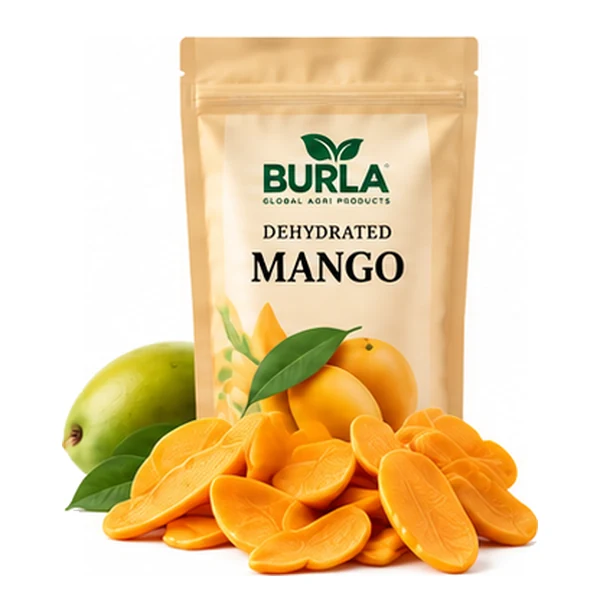
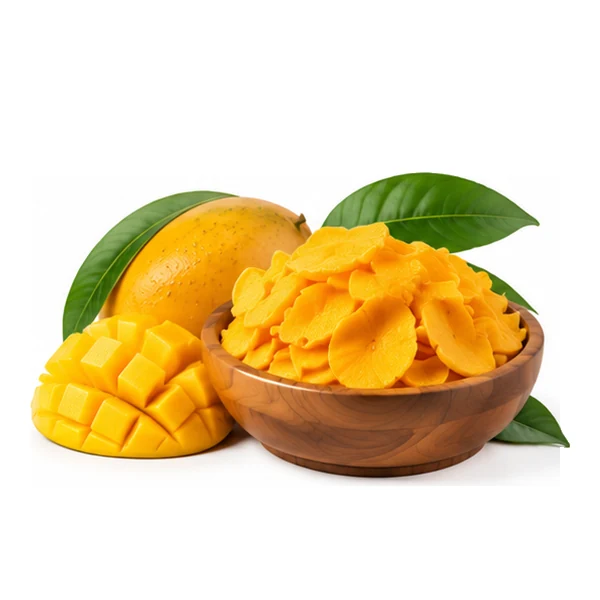
feat(imagery): add the client's photographs for the six Dehydrated Fruits
Supplied 2026-09-10 as one sheet of six cards, each named on its card:
Apple, Papaya, Mango, Pineapple, Sapota and Honey. Its Mango card replaces
the Featured sheet's Dehydrated Mango pouch, so the six fruits share one
set — the homepage's featured Mango card changes with it.

The extraction script (renamed extract_product_sheets.py, as it now covers
three sheets) ends the label at a narrower gap when what sits above it is
coloured. Honey's photograph is only 11 rows above its name, the same as
ABC's two label lines. The same fix restores the bottom of Onion Flakes,
whose scattered flakes had been cut off; every other output is
byte-identical.

diff --git a/apps/web/src/lib/imagery.ts b/apps/web/src/lib/imagery.ts
@@ -95,16 +95,22 @@ export const imagery: {
       { src: `/images/categories/${slug}.webp`, alt: alt!, width: 480, height: 360 },
     ]),
   ),
-  // Supplied by the client, 2026-09-10, as three sheets; each photo cut out
+  // Supplied by the client, 2026-09-10, as four sheets; each photo cut out
   // and re-centred at one scale (assets/products/).
-  //   - The Featured Products sheet: only the four that picture a product in
-  //     the catalogue are used; its Dehydrated Banana and Ragi Flour are not.
-  //   - The Powders and Flakes sheets: all thirteen and all seven, one per
-  //     product under Dehydrated Powders & Flakes, each named on its card.
+  //   - The Featured Products sheet: mango pickle, red chilli powder and
+  //     gongura pickle. Its Dehydrated Banana and Ragi Flour are not in the
+  //     catalogue; its Dehydrated Mango is superseded by the fruits sheet.
+  //   - The Powders, Flakes and Dehydrated Fruits sheets: every card, one per
+  //     product in those categories, each named on its card.
   // Alt text describes what each photograph shows, and nothing more.
   products: Object.fromEntries(
     [
-      ["dehydrated-fruits-mango", "Dehydrated Mango pouch with dried mango slices and fresh mangoes"],
+      ["dehydrated-fruits-apple", "Wooden bowl of dried apple slices with fresh apples"],
+      ["dehydrated-fruits-papaya", "Wooden bowl of dried papaya strips with a halved papaya"],
+      ["dehydrated-fruits-mango", "Wooden bowl of dried mango slices with a fresh mango, cut and whole"],
+      ["dehydrated-fruits-pineapple", "Wooden bowl of dried pineapple rings with a fresh pineapple"],
+      ["dehydrated-fruits-sapota", "Wooden bowl of dried sapota slices with fresh sapota"],
+      ["dehydrated-fruits-honey", "Jar of honey with a bowl of honey, a honey dipper, honeycomb and white flowers"],
       ["mango-pickle", "Jar of Mango Pickle with fresh mango and dried chillies"],
       ["red-chilli-powder", "Wooden bowl of red chilli powder with dried red chillies"],
       ["gongura-pickle", "Jar of Gongura Pickle with gongura leaves and red chillies"],

diff --git a/assets/products/extract_product_sheets.py b/assets/products/extract_product_sheets.py
@@ -1,10 +1,11 @@
 """
-Cut the Powders and Flakes photographs out of the client's two sheets.
+Cut the product photographs out of the client's per-category sheets.
 
-    python assets/products/extract_powders_flakes.py
+    python assets/products/extract_product_sheets.py
 
 Input   assets/products/powders-supplied.png       13 cards (2092 x 752)
         assets/products/flakes-supplied.png        7 cards (2092 x 752)
+        assets/products/fruits-supplied.png        6 cards (1774 x 887)
 Output  apps/web/public/images/products/{slug}.webp  one square image each
 
 Same method as extract_featured.py: card edges measured from the sheet's own
@@ -58,7 +59,24 @@ FLAKES = [
     ("beetroot-flakes", (1121, 1638), F_ROW_2),
 ]
 
-SHEETS = [("powders-supplied.png", POWDERS), ("flakes-supplied.png", FLAKES)]
+# Dehydrated Fruits sheet: three cards in each row. Its Mango card replaces
+# the Featured sheet's (see extract_featured.py), so the six fruits match.
+D_ROW_1 = (12, 436)
+D_ROW_2 = (452, 874)
+FRUITS = [
+    ("dehydrated-fruits-apple", (11, 584), D_ROW_1),
+    ("dehydrated-fruits-papaya", (601, 1173), D_ROW_1),
+    ("dehydrated-fruits-mango", (1190, 1762), D_ROW_1),
+    ("dehydrated-fruits-pineapple", (11, 584), D_ROW_2),
+    ("dehydrated-fruits-sapota", (601, 1173), D_ROW_2),
+    ("dehydrated-fruits-honey", (1190, 1762), D_ROW_2),  # sheet: "Honey (Confirmation Required)"
+]
+
+SHEETS = [
+    ("powders-supplied.png", POWDERS),
+    ("flakes-supplied.png", FLAKES),
+    ("fruits-supplied.png", FRUITS),
+]
 
 TILE = 600      # square, matching the product card's image area, ~2x its size
 FILL = 0.9
@@ -107,6 +125,12 @@ for sheet, (slug, (x0, x1), (top, bottom)) in CARDS:
             if gap >= LABEL_GAP:
                 break
         else:
+            # A narrower gap still ends the label if what sits above it is
+            # coloured: the Honey card's photo is only 11 rows above its
+            # name — the same spacing as ABC's two label lines, which are
+            # text, and colourless.
+            if gap >= 4 and coloured[max(0, y - 7):y + 1].any():
+                break
             gap, text_top = 0, y
     photo = card[: text_top - 8]
 

diff --git a/assets/products/extract_featured.py b/assets/products/extract_featured.py
@@ -31,9 +31,10 @@ os.makedirs(OUT, exist_ok=True)
 TOP, BOTTOM = 94, 686
 # Named for the catalogue's product slugs. The sheet's Dehydrated Banana
 # (x 728-1078) and Ragi Flour (x 1444-1793) are not in the catalogue of
-# 2026-09-10 and are not extracted.
+# 2026-09-10 and are not extracted. Its Dehydrated Mango (x 14-363) is
+# superseded by the Dehydrated Fruits sheet's Mango card, so the six fruits
+# share one set; see extract_product_sheets.py.
 CARDS = [
-    ("dehydrated-fruits-mango", (14, 363)),   # sheet: Dehydrated Mango
     ("mango-pickle", (376, 715)),
     ("red-chilli-powder", (1090, 1431)),
     ("gongura-pickle", (1805, 2157)),
